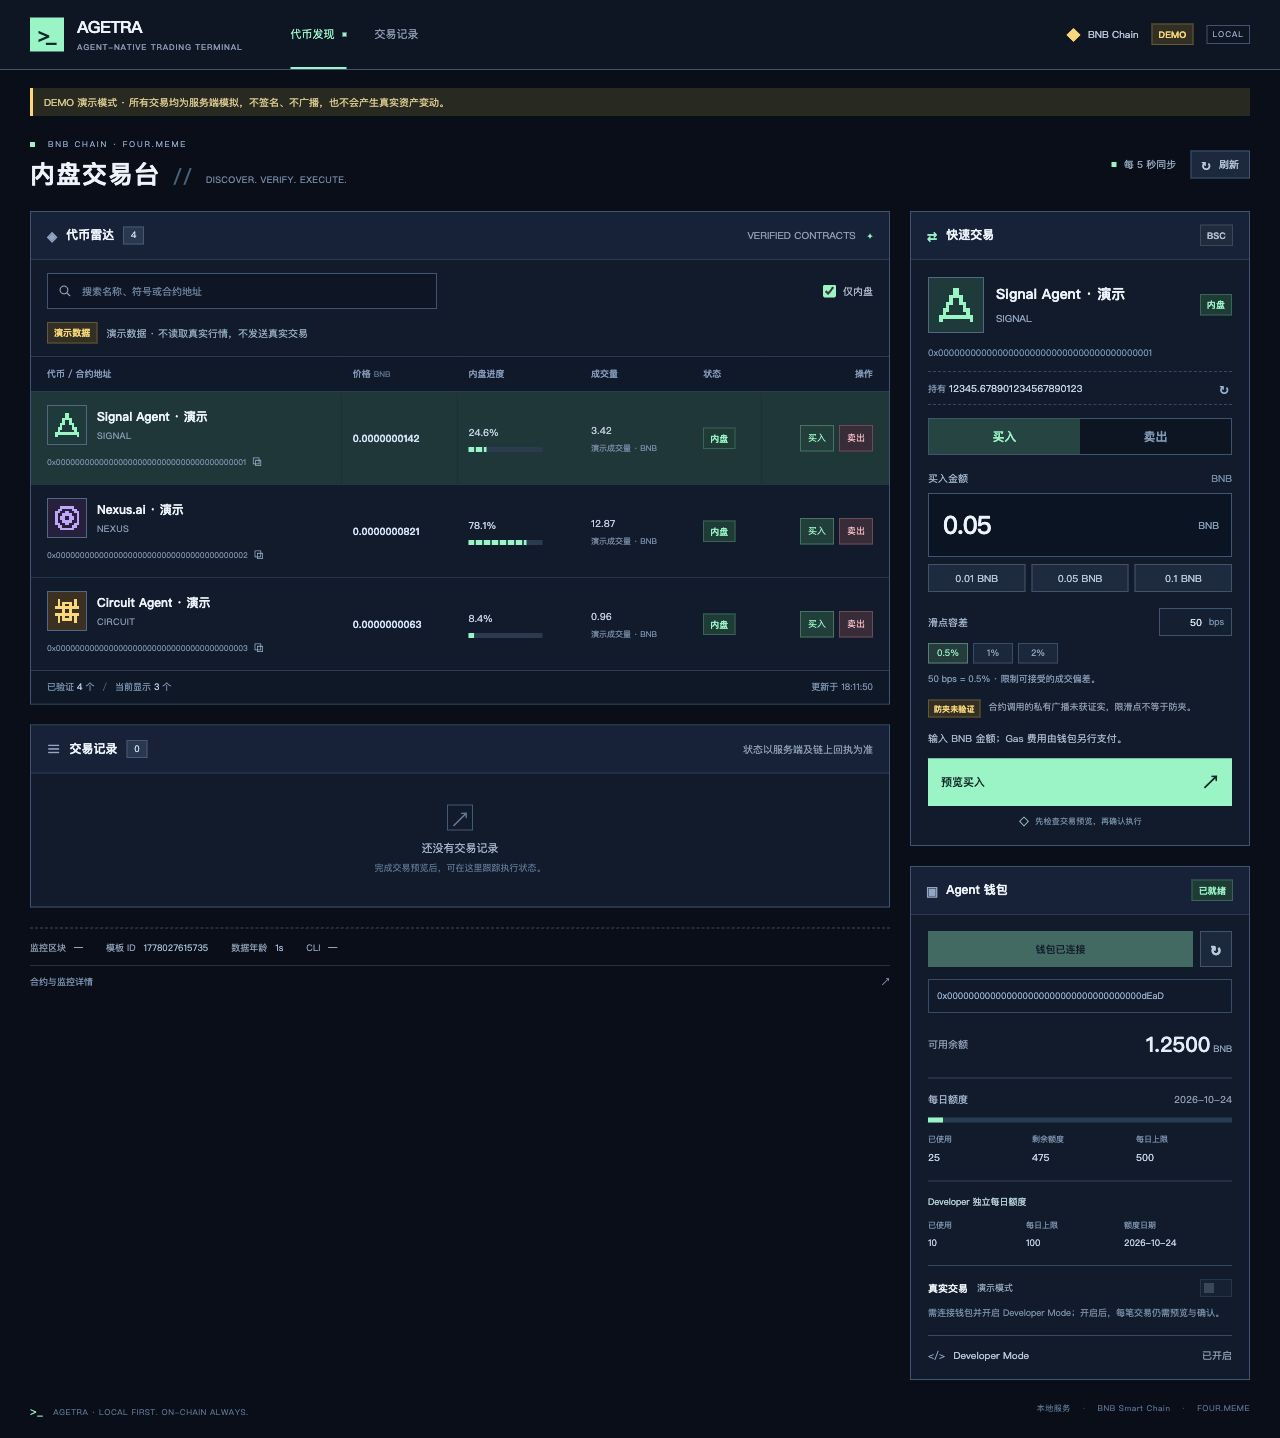
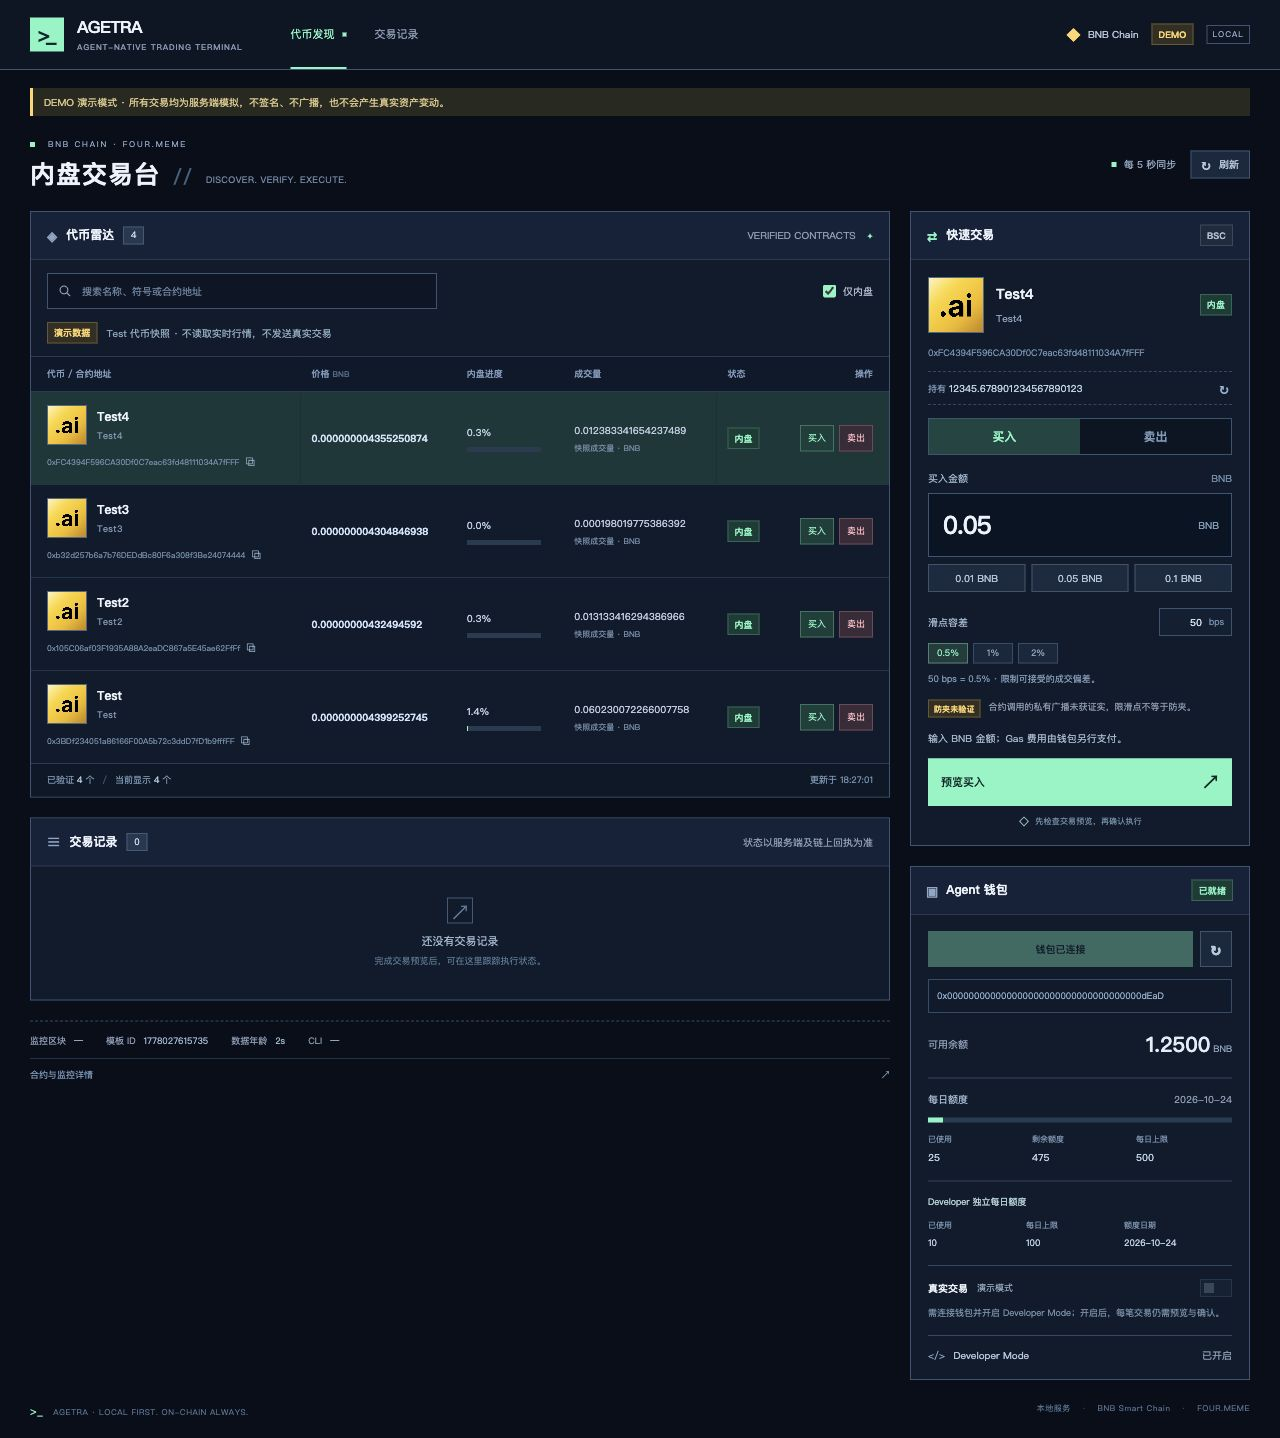
Release v0.2.3 with verified Test token demo snapshots
Use Test, Test2, Test3 and Test4 identities and locally cached artwork in the offline demo; refresh the product screenshot and package the documentation images.

diff --git a/scripts/package-release.py b/scripts/package-release.py
@@ -31,6 +31,7 @@ SOURCE_TREES = {
     "config": {".json"},
     "public": {".html", ".css", ".js", ".svg", ".png", ".jpg", ".jpeg", ".webp", ".ico", ".woff", ".woff2"},
     "test": {".mjs"},
+    "docs/images": {".jpg", ".png", ".webp", ".svg"},
 }
 RUNTIME_FILES = (
     "runtime/node.exe", "runtime/LICENSE",

diff --git a/README.md b/README.md
@@ -8,19 +8,19 @@ Agetra Terminal 是在本机运行的 Binance Agent Wallet 交易面板。
 
 ![Agetra Terminal 产品界面（演示模式）](./docs/images/agetra-terminal-demo.jpg)
 
-*演示模式界面，展示代币雷达、快速交易和 Agent 钱包面板。*
+*演示模式使用当前已获取的 Test、Test2、Test3、Test4 代币快照，展示代币雷达、快速交易和 Agent 钱包面板。*
 
 ## Windows 用户：下载后双击使用
 
 从 [GitHub Releases](https://github.com/pearl4979/agetra-terminal/releases) 下载：
 
-- `Agetra-Terminal-v0.2.2-Windows-x64.zip`：Windows x64 便携版，已内置 Node.js 和依赖。
+- `Agetra-Terminal-v0.2.3-Windows-x64.zip`：Windows x64 便携版，已内置 Node.js 和依赖。
 - `SHA256SUMS.txt`：用于核对下载文件的 SHA-256。
 
 不要选择 GitHub 自动生成的 Source code ZIP 来替代便携版。该便携包不适用于 macOS、Linux 或 Windows ARM64。
 
 1. 将 ZIP **全部解压**到本机普通文件夹，例如 `C:\Agetra`。
-2. 先双击 `演示.cmd`。浏览器会打开 `http://127.0.0.1:4319`，使用模拟代币、余额和订单，不会发起链上交易。
+2. 先双击 `演示.cmd`。浏览器会打开 `http://127.0.0.1:4319`，使用 Test 系列代币的离线快照、模拟余额和订单，不会发起链上交易。
 3. 查看实时数据时，双击 `启动.cmd`，浏览器会打开 `http://127.0.0.1:4318`。
 4. 保持运行窗口打开；关闭它会停止本地服务。只关闭浏览器不会停止服务。
 
@@ -29,7 +29,7 @@ Agetra Terminal 是在本机运行的 Binance Agent Wallet 交易面板。
 PowerShell 校验下载文件：
 
 ```powershell
-Get-FileHash .\Agetra-Terminal-v0.2.2-Windows-x64.zip -Algorithm SHA256
+Get-FileHash .\Agetra-Terminal-v0.2.3-Windows-x64.zip -Algorithm SHA256
 ```
 
 将结果与同一 Release 的 `SHA256SUMS.txt` 对照。
@@ -83,8 +83,8 @@ python scripts/package-release.py
 
 脚本读取并核对 `package.json` 与 `package-lock.json` 的名称、版本，只收录指定的项目文件。默认在 `dist/` 生成：
 
-- `Agetra-Terminal-v0.2.2-Windows-x64.zip`
-- `Agetra-Terminal-v0.2.2-Source.zip`
+- `Agetra-Terminal-v0.2.3-Windows-x64.zip`
+- `Agetra-Terminal-v0.2.3-Source.zip`
 - `SHA256SUMS.txt`
 
 便携包需要完整的 Windows `runtime/` 和原依赖树；它们只进入 Windows 包，保留原始许可文件。干净源码 checkout 可运行 `python scripts/package-release.py --source-only`，仅生成源码包及本次输出的校验文件。打包器会排除 `.env`、`.runtime`、Git 元数据和临时输出，并拒绝白名单目录中的符号链接。打包成功不等于 Windows 启动或真实交易验证成功。

diff --git a/CHANGELOG.md b/CHANGELOG.md
@@ -1,5 +1,11 @@
 # 更新记录
 
+## 0.2.3 — 2026-10-24
+
+- 演示列表改为当前已获取的 Test、Test2、Test3、Test4 代币快照。
+- 使用真实代币名称、合约地址和本地缓存头像，演示无需联网。
+- 更新产品截图、公开介绍和 Windows 便携包。
+
 ## 0.2.2 — 2026-10-24
 
 Agetra Terminal 首个公开版本。
